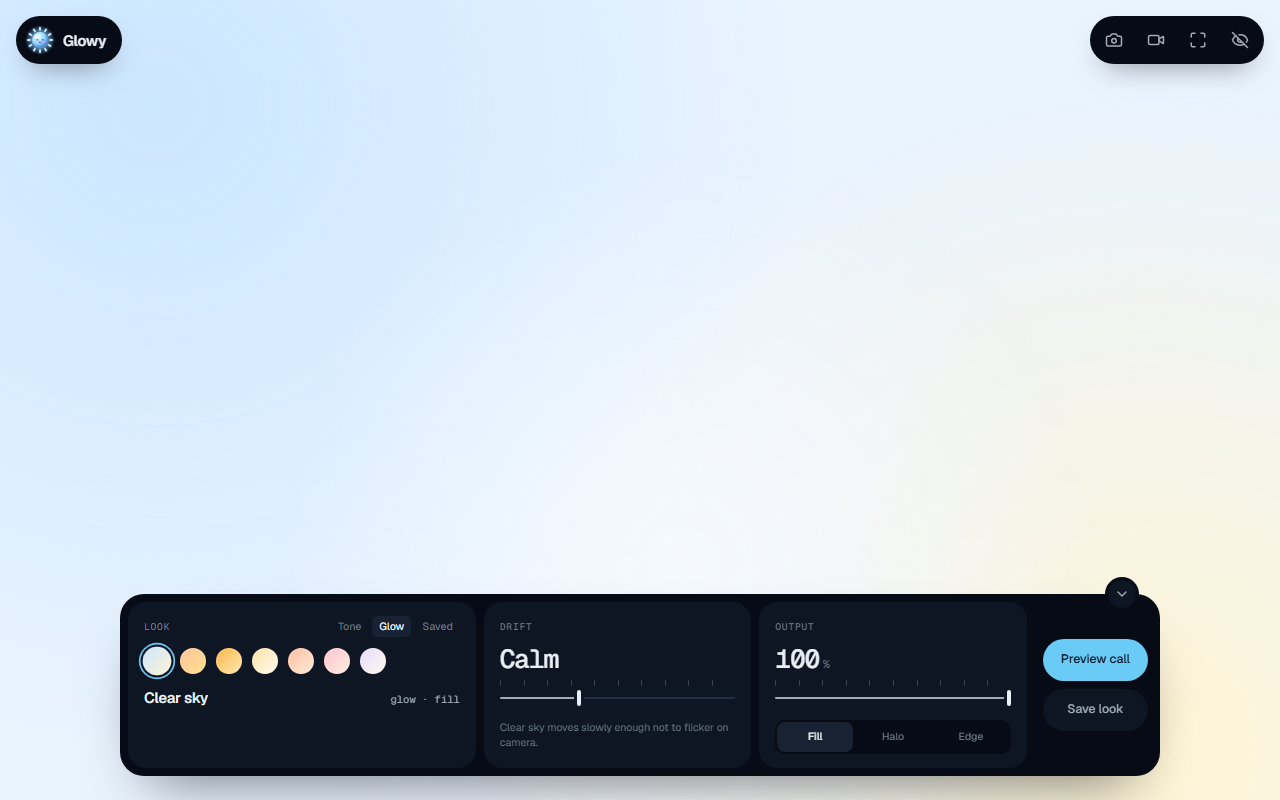
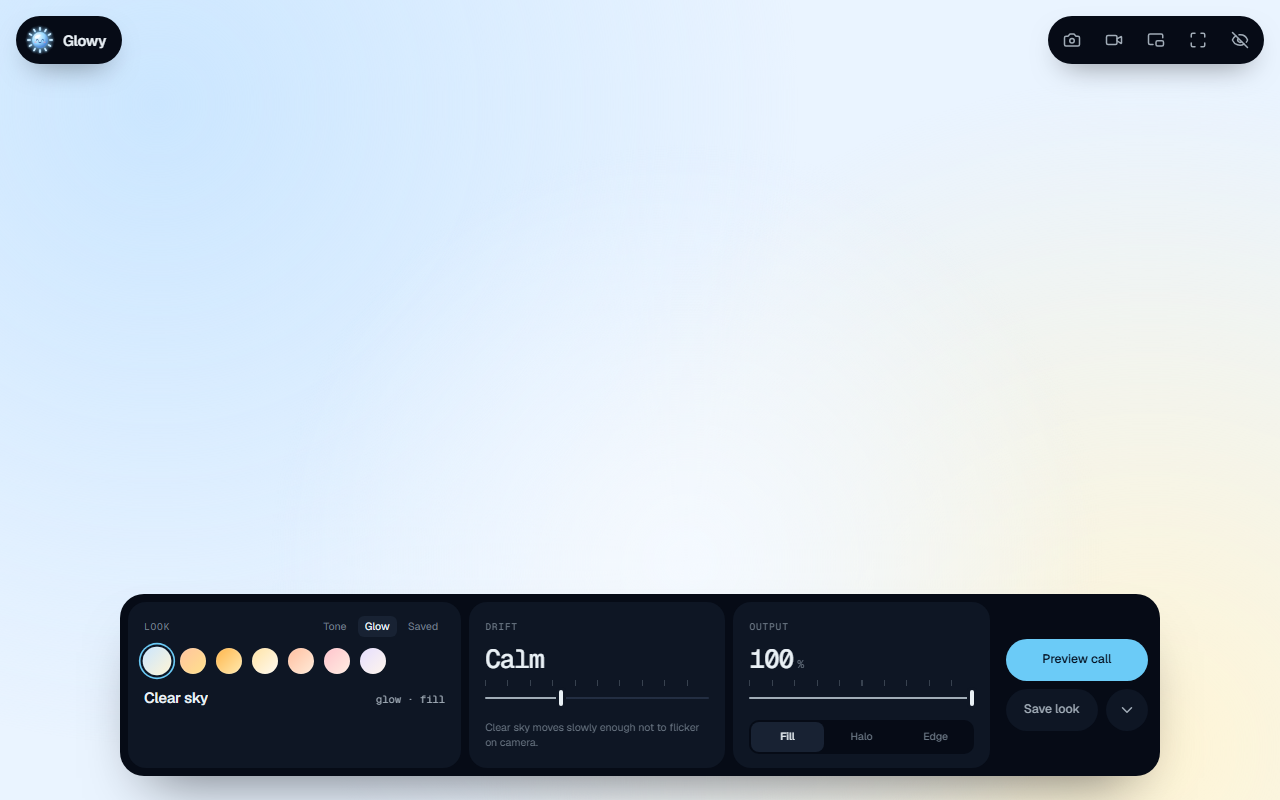
docs: document pop-out light and Cloudflare deploy, refresh screenshots
Claude-Session: https://claude.ai/code/session_01StsFQ95KxiTm59DUCLDbLt

diff --git a/README.md b/README.md
@@ -40,7 +40,8 @@ It's a small installable PWA with no account, no tracking and no server. Everyth
 - **Full screen** in one tap (`F`).
 - **Wake lock** keeps the screen from sleeping mid-call. Look for *awake* next to the logo.
 - **Auto-hide**: controls fade after 3.5 s of stillness. Move the mouse or tap to bring them back, or press `H` to hide them at once.
-- **Minimise the dock** (`M`, or the chevron on its top edge) to a small pill showing the current look and brightness. Glowy remembers whether you left it open or minimised.
+- **Pop out the light** (`O`) into a small always-on-top picture-in-picture window, so it can sit beside or over your meeting app. In Chrome and Edge the window is resizable and has its own hover controls (previous / next look, dimmer / brighter), kept in sync with the main app. In Safari it opens as a video picture-in-picture of the light.
+- **Minimise the dock** (`M`, or the chevron beside *Save look*) to a small pill showing the current look and brightness. Glowy remembers whether you left it open or minimised.
 - **Saved looks**: up to 8 favourites, stored locally under *Look → Saved*.
 - Works offline once it's installed.
 
@@ -51,6 +52,7 @@ It's a small installable PWA with no account, no tracking and no server. Everyth
 | `F` | Full screen |
 | `H` | Hide controls |
 | `M` | Minimise / expand the dock |
+| `O` | Pop out the light (picture-in-picture) |
 | `C` | Camera mirror |
 | `P` | Meeting preview |
 | `←` `→` | Previous / next tone or glow |
@@ -84,6 +86,17 @@ npm run icons     # rebuild every icon from scripts/build-icons.mjs
 
 The camera and wake lock need a secure context: `localhost` works, and any deployed copy must be served over **https**.
 
+### Deploy to Cloudflare Workers
+
+Glowy deploys as static assets on Cloudflare Workers; there is no Worker script. `wrangler.jsonc` points at `dist/` and serves `index.html` for unknown paths. `public/_headers` stops the service worker and manifest from being cached and caches hashed assets for a year.
+
+```bash
+npx wrangler login   # once
+npm run deploy       # build + wrangler deploy
+```
+
+Your app is then live at `https://glowy.<your-subdomain>.workers.dev`. Add a custom domain from the Cloudflare dashboard if you like. Workers always serve over https, which the camera, wake lock and install prompt need.
+
 **Deploying under a sub-path** (for example GitHub Pages at `/glowy/`):
 
 ```bash
@@ -105,14 +118,18 @@ src/
   lib/light.ts             tones, glow scenes, kelvin → colour, look names
   lib/persist.ts           localStorage-backed state
   hooks/useDevice.ts       idle timer, wake lock, full screen, camera
+  hooks/usePip.ts          pop-out light: Document PiP, with a canvas → video PiP fallback
   components/LightStage    the light itself (tone / glow × fill / halo / edge)
   components/Dock          the instrument dock: look · temperature · output · actions
   components/Camera        draggable mirror + shared <video>
   components/MeetingPreview  call-grid preview with simulated compare
+  components/PipLight      the light + hover controls inside the PiP window
   components/Sunny         the blue-sun mascot
   styles/tokens.css        colours, type, spacing, motion tokens
   styles/app.css           everything else
 scripts/build-icons.mjs    PWA / favicon / Apple icons from one SVG
+wrangler.jsonc             Cloudflare Workers static-assets config
+public/_headers            cache + security headers for Cloudflare
 design/icons/              icon mockups (three rounds)
 design/ui/                 UI mockups; v2/ holds the atmospheric directions (A1 shipped)
 ```
